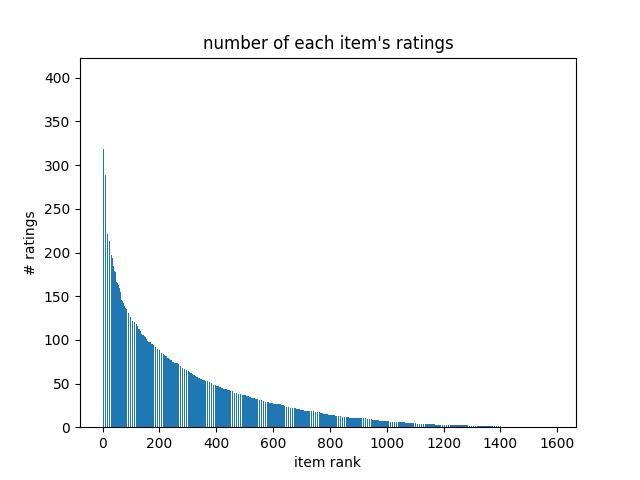
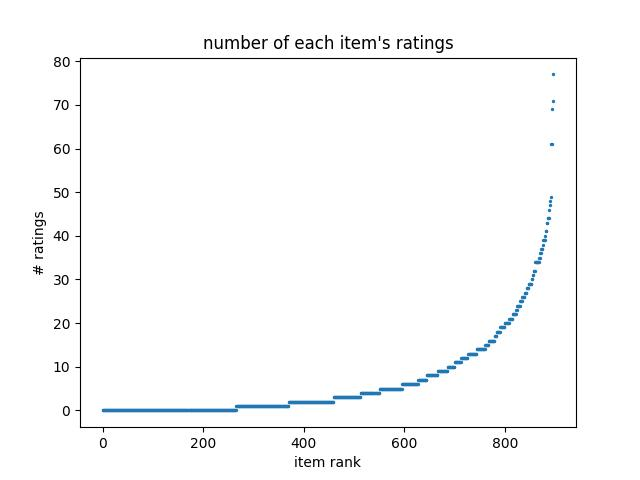
still something wrong

diff --git a/adaptive_clustering.py b/adaptive_clustering.py
@@ -19,7 +19,8 @@ from CommunityDetection import BaseCommunityDetection, QUBOBipartiteCommunityDet
     HybridCommunityDetection, MultiHybridCommunityDetection, QUBONcutCommunityDetection, \
     SpectralClustering, QUBOBipartiteProjectedItemCommunityDetection
 from recsys.Data_manager import Movielens100KReader, Movielens1MReader, FilmTrustReader, FrappeReader, \
-    MovielensHetrec2011Reader, LastFMHetrec2011Reader, CiteULike_aReader, CiteULike_tReader, MovielensSampleReader
+    MovielensHetrec2011Reader, LastFMHetrec2011Reader, CiteULike_aReader, CiteULike_tReader, \
+    MovielensSampleReader, MovielensSample2Reader
 # from recsys.Evaluation.Evaluator import EvaluatorHoldout
 from recsys.Evaluation.AC_Evaluator import AC_Evaluator
 from recsys.Recommenders.BaseRecommender import BaseRecommender
@@ -45,8 +46,8 @@ def plot(urm, method, dataset_name, folder_path):
     print(RMSE_data)
     for data in (MAE_data, RMSE_data):
         for key in data: # sort data according I_quantity
-            data[key] = [x for _, x in sorted(zip(I_quantity, data[key]), reverse=True)]
-    I_quantity = sorted(I_quantity, reverse=True)
+            data[key] = [x for _, x in sorted(zip(I_quantity, data[key]))]
+    I_quantity = sorted(I_quantity)
     x = range(n_items)
     plot_lines(x, MAE_data, method_folder_path, 'item rank', 'MAE')
     plot_lines(x, RMSE_data, method_folder_path, 'item rank', 'RMSE')
@@ -54,7 +55,6 @@ def plot(urm, method, dataset_name, folder_path):
     print(MAE_data)
     print(RMSE_data)
     x = list(set(I_quantity))
-    x.reverse()
     for data in (MAE_data, RMSE_data):
         for key in data:
             new_data = {}
@@ -66,7 +66,7 @@ def plot(urm, method, dataset_name, folder_path):
             for k in new_data:
                 new_data[k] /= cnt[k]
             data[key] = list(new_data.values())
-            data[key].reverse()
+            data[key]
     plot_lines(x, MAE_data, method_folder_path, 'the number of ratings', 'MAE')
     plot_lines(x, RMSE_data, method_folder_path, 'the number of ratings', 'RMSE')
 
@@ -302,6 +302,7 @@ def main(data_reader_classes, method_list: Iterable[Type[BaseCommunityDetection]
                                  save_model=save_model)
             '''
             plot(urm_train, method, dataset_name, result_folder_path)
+            # plot(urm_test, method, dataset_name, result_folder_path)
 
 
 def recommend_per_method(urm_train, urm_validation, urm_test, cd_urm, ucm, icm, method, sampler_list, recommender_list,
@@ -428,7 +429,7 @@ def save_results(data_reader_classes, result_folder_path, *args):
 if __name__ == '__main__':
     args = parse_args()
     CRITERION = args.criterion
-    data_reader_classes = [MovielensSampleReader]
+    data_reader_classes = [MovielensSample2Reader]
     # data_reader_classes = [Movielens1MReader]
     # data_reader_classes = [Movielens100KReader, Movielens1MReader, FilmTrustReader, MovielensHetrec2011Reader,
     #                        LastFMHetrec2011Reader, FrappeReader, CiteULike_aReader, CiteULike_tReader]

diff --git a/recsys/Evaluation/AC_Evaluator.py b/recsys/Evaluation/AC_Evaluator.py
@@ -22,14 +22,14 @@ class AC_Evaluator(object):
         MAE = np.zeros(self.n_items)
         RMSE = np.zeros(self.n_items)
         num_rating = np.ediff1d(self.URM_test.tocsc().indptr) # count of each colum
-        # print('num_rating:', num_rating)
-        # print('num_rating <= 1: ', (num_rating <= 1).sum()) # 758
+        print('num_rating <= 1: ', (num_rating <= 1).sum()) # 370
 
         rows, cols = self.URM_test.nonzero()
         for row, col in zip(rows, cols):
             diff = abs(self.URM_test[row, col] - predict_scores[row, col])
             MAE[col] += diff
             RMSE[col] += diff ** 2
+            # print(f'[{row}, {col}]: test={self.URM_test[row, col]}, predict={predict_scores[row, col]}')
 
         num_rating_all = np.sum(num_rating)
         MAE_all = np.sum(MAE) / num_rating_all

diff --git a/recsys/Recommenders/AdaptiveClustering.py b/recsys/Recommenders/AdaptiveClustering.py
@@ -36,13 +36,14 @@ class AdaptiveClustering(BaseRecommender):
           y += Y[j]
         if len(x) == 0:
           print(f'[Warning] no data for item {i}.')
-          self.scores[i] = np.ones(self.n_users) * 2.5
+          self.scores[i] = np.ones(self.n_users) * 3.0
         else:
+          # print(f'model for item {i} fit with group_size {len(groups[i])}, data_size {len(y)}')
           model.fit(x, y)
           self.scores[i] = model.predict(user_related_variables)
         # self.models[i].fit(x, y)
         # self.scores[i] = self.models[i].predict(users_feat)
-      self.scores[self.scores < 0.0] = 0.0
+      self.scores[self.scores < 1.0] = 1.0
       self.scores[self.scores > 5.0] = 5.0
 
 

diff --git a/recsys/Recommenders/CommunityDetectionAdaptiveClustering.py b/recsys/Recommenders/CommunityDetectionAdaptiveClustering.py
@@ -62,6 +62,8 @@ class CommunityDetectionAdaptiveClustering(BaseRecommender):
     def fit(self):
         for community in self.communities:
             c_urm, _, _, c_icm, c_ucm = get_community_urm(self.URM_train, community=community, filter_users=False, remove=True, ucm=self.ucm, icm=self.icm)
+            # c_urm_train_last_test = merge_sparse_matrices(c_urm_train, c_urm_validation)
+            # print(c_urm.shape, c_icm.shape, c_ucm.shape)
             C_aver_rating, C_quantity, C_seen_popularity, C_seen_rating,\
             I_aver_rating, I_quantity, I_likability = create_derived_variables(self.URM_train)
             item_related_variables = np.hstack([

diff --git a/run_community_detection_mod.py b/run_community_detection_mod.py
@@ -287,7 +287,7 @@ def clean_results(result_folder_path, data_reader_classes, method_list):
 
 if __name__ == '__main__':
     args = parse_args()
-    data_reader_classes = [MovielensSampleReader]
+    data_reader_classes = [MovielensSample2Reader]
     # data_reader_classes = [Movielens1MReader]
     # data_reader_classes = [Movielens100KReader, Movielens1MReader, FilmTrustReader, MovielensHetrec2011Reader,
                         #    LastFMHetrec2011Reader, FrappeReader, CiteULike_aReader, CiteULike_tReader]

diff --git a/utils/plot.py b/utils/plot.py
@@ -200,7 +200,7 @@ def plot_lines(x, Y: dict, output: str, xlabel: str = 'x', ylabel: str = 'y'):
   # plt.margins(0)
   # plt.subplots_adjust(bottom=0.15)
   ax.set_xlabel(xlabel)
-  ax.set_ylabel(xlabel)
+  ax.set_ylabel(ylabel)
   # plt.xlabel(xlabel) #X轴标签
   # plt.ylabel(ylabel) #Y轴标签
   # plt.title("Figure") #标题
